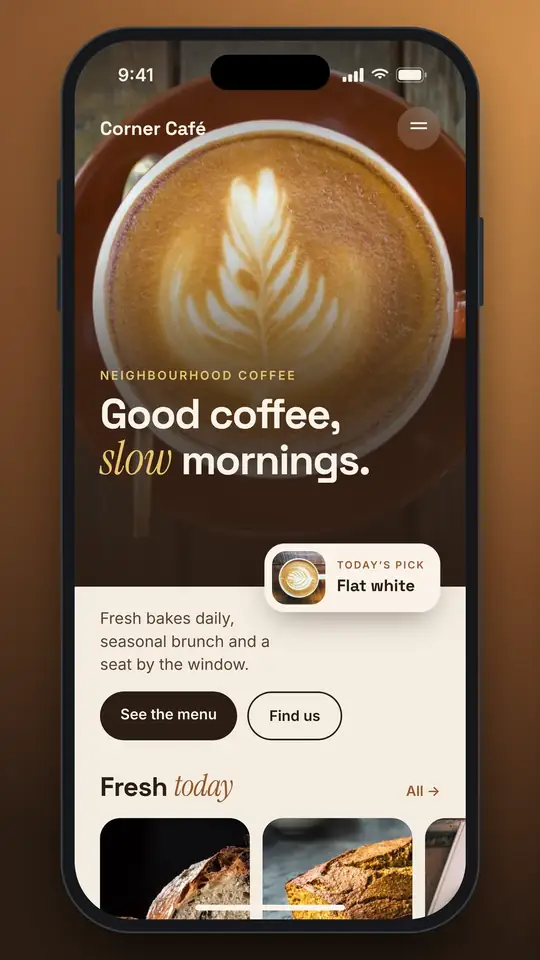
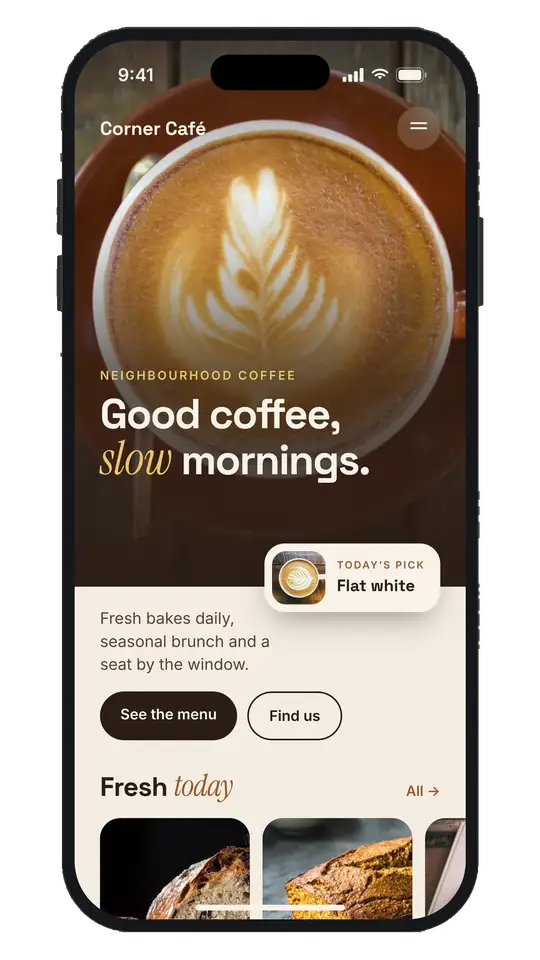
Hero fan: show the concept phones without the coloured cards
The hero crops included the sage, bronze and navy concept cards around each handset, and the fan painted a rounded card behind them. Clear that surround so the phones sit on the page background. Fan layout and copy are unchanged.

Changed region(s): [[0.0, 0.0, 1.0, 1.0]]

diff --git a/site/site.css b/site/site.css
@@ -384,7 +384,7 @@ section.hero .lead{margin-bottom:26px}
 /* the fan: three concept handsets (pictures only; the same concepts are described in full under Concept work, where this links) */
 .hero-art{position:relative;display:block;width:min(100%,440px);margin-inline:auto;color:inherit;text-decoration:none;border-radius:var(--r)}
 .fan{position:relative;display:block;aspect-ratio:10/7.4}
-.fan img{position:absolute;width:50%;aspect-ratio:9/16;object-fit:cover;border-radius:clamp(18px,5vw,30px);background:var(--ink-3);box-shadow:0 0 0 1px rgba(242,239,233,.12),0 30px 70px -18px rgba(0,0,0,.75);transition:transform .7s var(--ease),filter .5s}
+.fan img{position:absolute;width:50%;aspect-ratio:9/16;object-fit:cover;transition:transform .7s var(--ease),filter .5s}
 .fan .fan-c{left:25%;top:0;z-index:2}
 .fan .fan-l{left:-2%;top:8%;transform:rotate(-11deg);transform-origin:70% 100%;filter:brightness(.62)}
 .fan .fan-r{right:-2%;top:8%;transform:rotate(11deg);transform-origin:30% 100%;filter:brightness(.62)}
@@ -395,7 +395,7 @@ section.hero .lead{margin-bottom:26px}
 .hero-grid{grid-template-columns:minmax(0,1.1fr) minmax(0,.9fr);align-items:center;padding-bottom:clamp(64px,7vw,104px)}
 section.hero h1{font-size:clamp(54px,5.5vw,76px);max-width:14ch}
 .hero-art{width:100%;max-width:540px;margin-inline:auto 0}
-.fan{aspect-ratio:10/10.2}.fan img{border-radius:30px}.fan .fan-l,.fan .fan-r{top:10%}
+.fan{aspect-ratio:10/10.2}.fan .fan-l,.fan .fan-r{top:10%}
 .hero-art .ctag{bottom:-6px}
 }
 /* entrance (CSS only, so it never waits for script): the supporting copy rises and the fan opens. The heading and the front handset are never hidden, so the first paint already carries them. */

diff --git a/site/brand/hero-img.py b/site/brand/hero-img.py
@@ -1,11 +1,63 @@
 # Derives the /web/ hero pictures from the existing concept viewer crops (site/img/concept-<key>-view-1125.webp, 9:16).
-# No new artwork: the same three concept handsets, resized for the hero fan -> site/img/hero-<key>-360/540/720.webp.
+# Those crops include the concept card colour around the handset. The hero fan shows the phone only, so the card
+# is cleared. All three crops share one handset outline (taken from the studio crop); nothing else is redrawn.
+# Output: site/img/hero-<key>-360/540/720.webp, phone intact, surround transparent.
 # Usage: python3 site/brand/hero-img.py
 import os
-from PIL import Image
+from PIL import Image, ImageFilter
 img=os.path.join(os.path.dirname(os.path.abspath(__file__)),'..','img')
+
+def phone_mask(im):
+    # The handset bezel is a dark neutral rim. Fill between its left and right edges, then add one pixel
+    # so the rim's outer edge is kept, and drop that extra pixel where it is still the coloured card.
+    w,h=im.size
+    px=im.load()
+    def lum(p):
+        return 0.2126*p[0]+0.7152*p[1]+0.0722*p[2]
+    def bezel(p):
+        L=lum(p)
+        return 10<=L<=52 and max(p)-min(p)<=26
+    edges=[None]*h
+    for y in range(h):
+        xl=next((x for x in range(w) if bezel(px[x,y])), None)
+        if xl is None: continue
+        xr=next((x for x in range(w-1,-1,-1) if bezel(px[x,y])), None)
+        if xr and 200*w/720<xr-xl<620*w/720:
+            edges[y]=(xl,xr)
+    def med(vals):
+        s=sorted(vals)
+        return s[len(s)//2]
+    smooth=edges[:]
+    for y in range(h):
+        if edges[y] is None: continue
+        win=[edges[i] for i in range(max(0,y-3),min(h,y+4)) if edges[i]]
+        if len(win)>=3:
+            smooth[y]=(med(a for a,b in win), med(b for a,b in win))
+    mask=Image.new('L',(w,h),0)
+    mp=mask.load()
+    for y,e in enumerate(smooth):
+        if not e: continue
+        for x in range(e[0],e[1]+1):
+            mp[x,y]=255
+    grown=mask.filter(ImageFilter.MaxFilter(3))
+    gp=grown.load()
+    for y in range(h):
+        for x in range(w):
+            if gp[x,y] and not mp[x,y]:
+                p=px[x,y]
+                if max(p)-min(p)>16 or lum(p)>90:
+                    gp[x,y]=0
+    covered=grown.histogram()[255]/(w*h)
+    if not 0.55<=covered<=0.8:
+        raise SystemExit(f'phone mask covered {covered:.2f} of the crop; expected the handset only')
+    return grown
+
+studio=Image.open(f'{img}/concept-studio-view-1125.webp').convert('RGB')
+mask=phone_mask(studio)
 for k in ['cafe','plumber','studio']:
-    im=Image.open(f'{img}/concept-{k}-view-1125.webp').convert('RGB')
+    im=Image.open(f'{img}/concept-{k}-view-1125.webp').convert('RGBA')
+    if im.size!=mask.size: raise SystemExit(f'{k} crop {im.size} != studio {mask.size}')
+    im.putalpha(mask)
     for w in (360,540,720):
         im.resize((w,w*16//9),Image.LANCZOS).save(f'{img}/hero-{k}-{w}.webp','WEBP',quality=68,method=6)
     print(k,*[os.path.getsize(f'{img}/hero-{k}-{w}.webp')//1024 for w in (360,540,720)],'KB')
